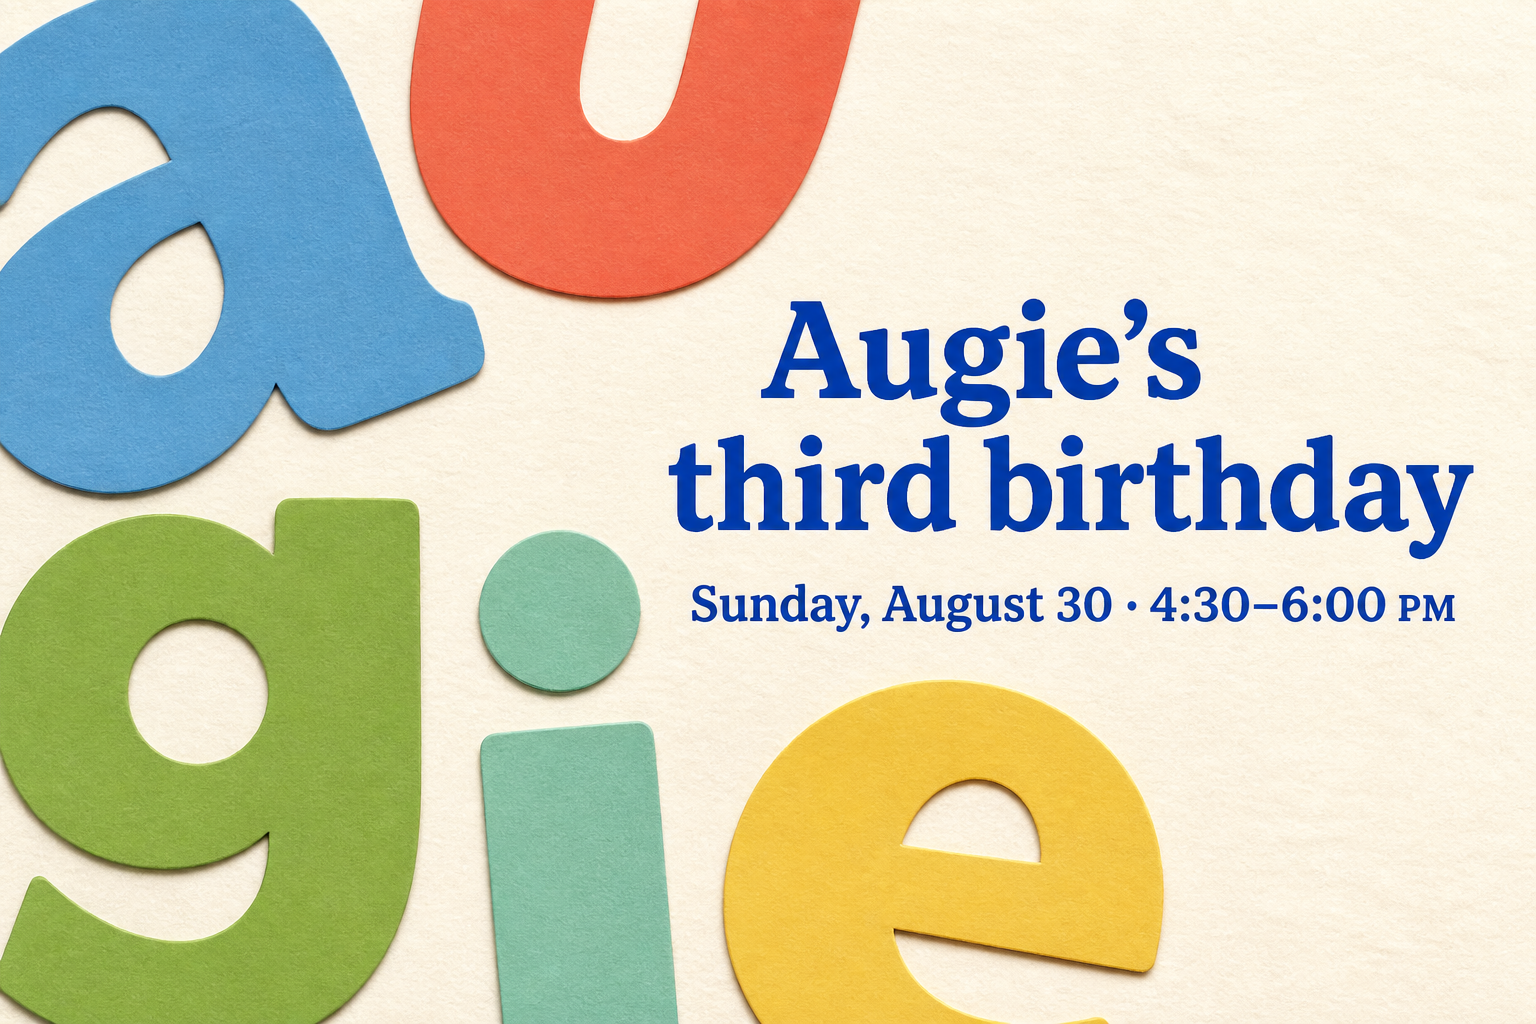
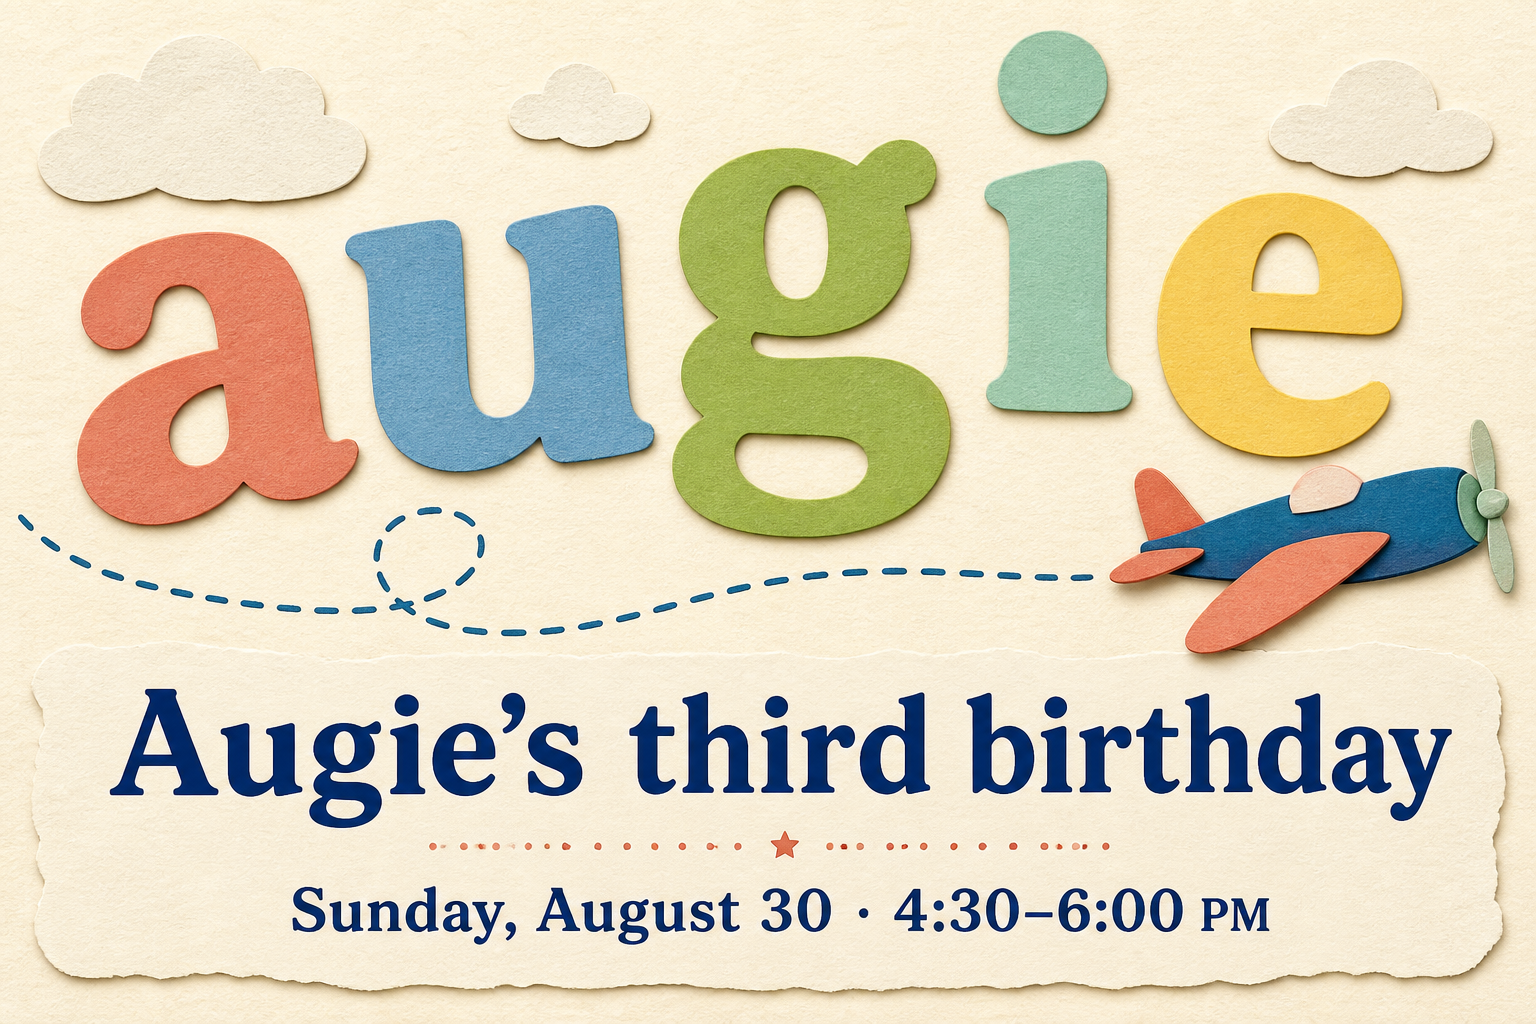
Add airplane birthday theme

diff --git a/site/styles.css b/site/styles.css
@@ -17,12 +17,15 @@ main { min-height: 100svh; display: grid; place-items: center; padding: 28px 18p
 
 .invitation { position: relative; isolation: isolate; width: min(100%, 720px); min-height: min(920px, calc(100svh - 56px)); overflow: hidden; padding: clamp(38px, 7vw, 78px) clamp(28px, 8vw, 82px) 42px; border: 1px solid rgba(68,57,40,.12); border-radius: 32px; background: var(--paper); box-shadow: 0 28px 80px rgba(82,55,24,.18); }
 .paper-noise { position: absolute; inset: 0; z-index: -1; opacity: .33; background-image: repeating-linear-gradient(113deg, transparent 0 5px, rgba(40,30,10,.025) 6px 7px); pointer-events: none; }
-.letter { position: absolute; z-index: -1; font-family: Georgia, serif; font-weight: 700; line-height: .72; user-select: none; opacity: .9; }
-.letter-a { color: var(--blue); font-size: 18rem; left: -58px; top: 84px; transform: rotate(-9deg); }
-.letter-u { color: var(--coral); font-size: 21rem; left: 82px; top: 16px; transform: rotate(3deg); }
-.letter-g { color: var(--green); font-size: 17rem; right: -48px; top: 300px; transform: rotate(11deg); }
-.letter-i { color: var(--mint); font-size: 15rem; right: 4px; top: 500px; transform: rotate(-7deg); }
-.letter-e { color: var(--gold); font-size: 20rem; right: -80px; bottom: -20px; transform: rotate(8deg); }
+.background-name { position: absolute; z-index: -1; top: 305px; left: 24px; right: 24px; display: flex; align-items: center; justify-content: space-between; user-select: none; opacity: .38; }
+.background-name span { font-family: Georgia, serif; font-size: clamp(5.2rem, 16vw, 8.2rem); font-weight: 800; line-height: .75; }
+.background-name span:nth-child(1) { color: var(--blue); transform: rotate(-10deg) translateY(-8px); }
+.background-name span:nth-child(2) { color: var(--coral); transform: rotate(7deg) translateY(7px); }
+.background-name span:nth-child(3) { color: var(--green); transform: rotate(-5deg) translateY(-6px); }
+.background-name span:nth-child(4) { color: var(--mint); transform: rotate(8deg) translateY(8px); }
+.background-name span:nth-child(5) { color: var(--gold); transform: rotate(-8deg); }
+.flight-path { position: absolute; z-index: -1; top: 20px; left: 20px; width: 245px; height: 98px; border-top: 3px dashed rgba(24,53,95,.24); border-radius: 50%; transform: rotate(-8deg); }
+.flight-path span { position: absolute; right: -9px; top: -24px; display: block; color: var(--ink); font-family: Arial, sans-serif; font-size: 2.7rem; line-height: 1; transform: rotate(16deg); }
 
 .hero-copy { width: min(340px, 74%); margin-left: auto; }
 .eyebrow { margin: 0 0 12px; font-size: .73rem; font-weight: 800; letter-spacing: .15em; text-transform: uppercase; color: var(--coral); }
@@ -39,6 +42,8 @@ main { min-height: 100svh; display: grid; place-items: center; padding: 28px 18p
 .time { margin: 0 0 10px; font-size: 1.15rem; font-weight: 800; color: var(--coral); }
 .detail-copy h2 { margin: 0 0 9px; font-family: Georgia, serif; font-size: 1.8rem; letter-spacing: -.02em; }
 .detail-copy p:not(.time) { margin: 0; font-size: .92rem; line-height: 1.55; }
+.detail-copy .hosts { margin-top: 13px; padding-top: 12px; border-top: 1px solid rgba(24,53,95,.12); font-size: .8rem; }
+.hosts strong { color: #0f5595; }
 .directions { display: inline-block; margin-top: 14px; color: #0f5595; font-size: .83rem; font-weight: 800; text-decoration: none; border-bottom: 1px solid currentColor; }
 
 .rsvp-button, .submit-button { border: 0; border-radius: 999px; color: white; background: var(--ink); font-weight: 850; letter-spacing: .08em; text-transform: uppercase; cursor: pointer; transition: transform .2s ease, box-shadow .2s ease, opacity .2s ease; }
@@ -79,11 +84,9 @@ main { min-height: 100svh; display: grid; place-items: center; padding: 28px 18p
   main { padding: 0; align-items: stretch; }
   .invitation { min-height: 100svh; border: 0; border-radius: 0; padding: 36px 24px 32px; }
   .hero-copy { width: 72%; }
-  .letter-a { left: -84px; top: 95px; }
-  .letter-u { left: 20px; top: 42px; }
-  .letter-g { right: -95px; top: 305px; }
-  .letter-i { right: -26px; top: 510px; }
-  .letter-e { right: -94px; bottom: 8px; }
+  .flight-path { left: -22px; top: 16px; width: 185px; }
+  .background-name { top: 312px; left: 12px; right: 12px; opacity: .34; }
+  .background-name span { font-size: clamp(4.1rem, 19vw, 6rem); }
   .party-details { grid-template-columns: 105px 1fr; gap: 12px; margin-top: 108px; }
   .day { font-size: 5.4rem; }
   .detail-copy { padding: 20px 18px; }

diff --git a/site/index.html b/site/index.html
@@ -18,16 +18,15 @@
     <main>
       <section class="invitation" aria-labelledby="party-title">
         <div class="paper-noise" aria-hidden="true"></div>
-        <div class="letter letter-a" aria-hidden="true">a</div>
-        <div class="letter letter-u" aria-hidden="true">u</div>
-        <div class="letter letter-g" aria-hidden="true">g</div>
-        <div class="letter letter-i" aria-hidden="true">i</div>
-        <div class="letter letter-e" aria-hidden="true">e</div>
+        <div class="flight-path" aria-hidden="true"><span>✈</span></div>
+        <div class="background-name" aria-hidden="true">
+          <span>a</span><span>u</span><span>g</span><span>i</span><span>e</span>
+        </div>
 
         <header class="hero-copy">
-          <p class="eyebrow">Jump, giggle &amp; celebrate</p>
+          <p class="eyebrow">Cleared for birthday fun</p>
           <h1 id="party-title">Augie’s <span>third</span> birthday!</h1>
-          <p class="intro">Come tumble with us for a very happy afternoon.</p>
+          <p class="intro">Our favorite little pilot is turning three. Fly over and celebrate with us!</p>
         </header>
 
         <div class="party-details">
@@ -40,12 +39,13 @@
             <p class="time">4:30–6:00 PM</p>
             <h2>The Little Gym</h2>
             <p>572 Allen Rd, Unit A1-2<br />Basking Ridge, NJ 07920</p>
+            <p class="hosts">Hosted by <strong>Yu Guo &amp; Yao Sun</strong></p>
             <a class="directions" href="https://www.google.com/maps/search/?api=1&amp;query=572+Allen+Rd+Unit+A1-2+Basking+Ridge+NJ+07920" target="_blank" rel="noreferrer">Get directions <span aria-hidden="true">↗</span></a>
           </div>
         </div>
 
         <button class="rsvp-button" id="open-rsvp" type="button">RSVP <span aria-hidden="true">→</span></button>
-        <p class="footer-note">Socks on, smiles ready!</p>
+        <p class="footer-note">Ready for takeoff!</p>
       </section>
     </main>
 
@@ -58,7 +58,7 @@
             <h2 id="rsvp-title">RSVP for Augie’s party</h2>
             <label class="name-field">
               <span>Your name</span>
-              <input id="guest-name" name="Name" required maxlength="80" autocomplete="name" placeholder="First and last name" />
+              <input id="guest-name" name="Name" required maxlength="80" autocomplete="name" placeholder="Your name" />
             </label>
             <div class="counts">
               <div class="count-field">
